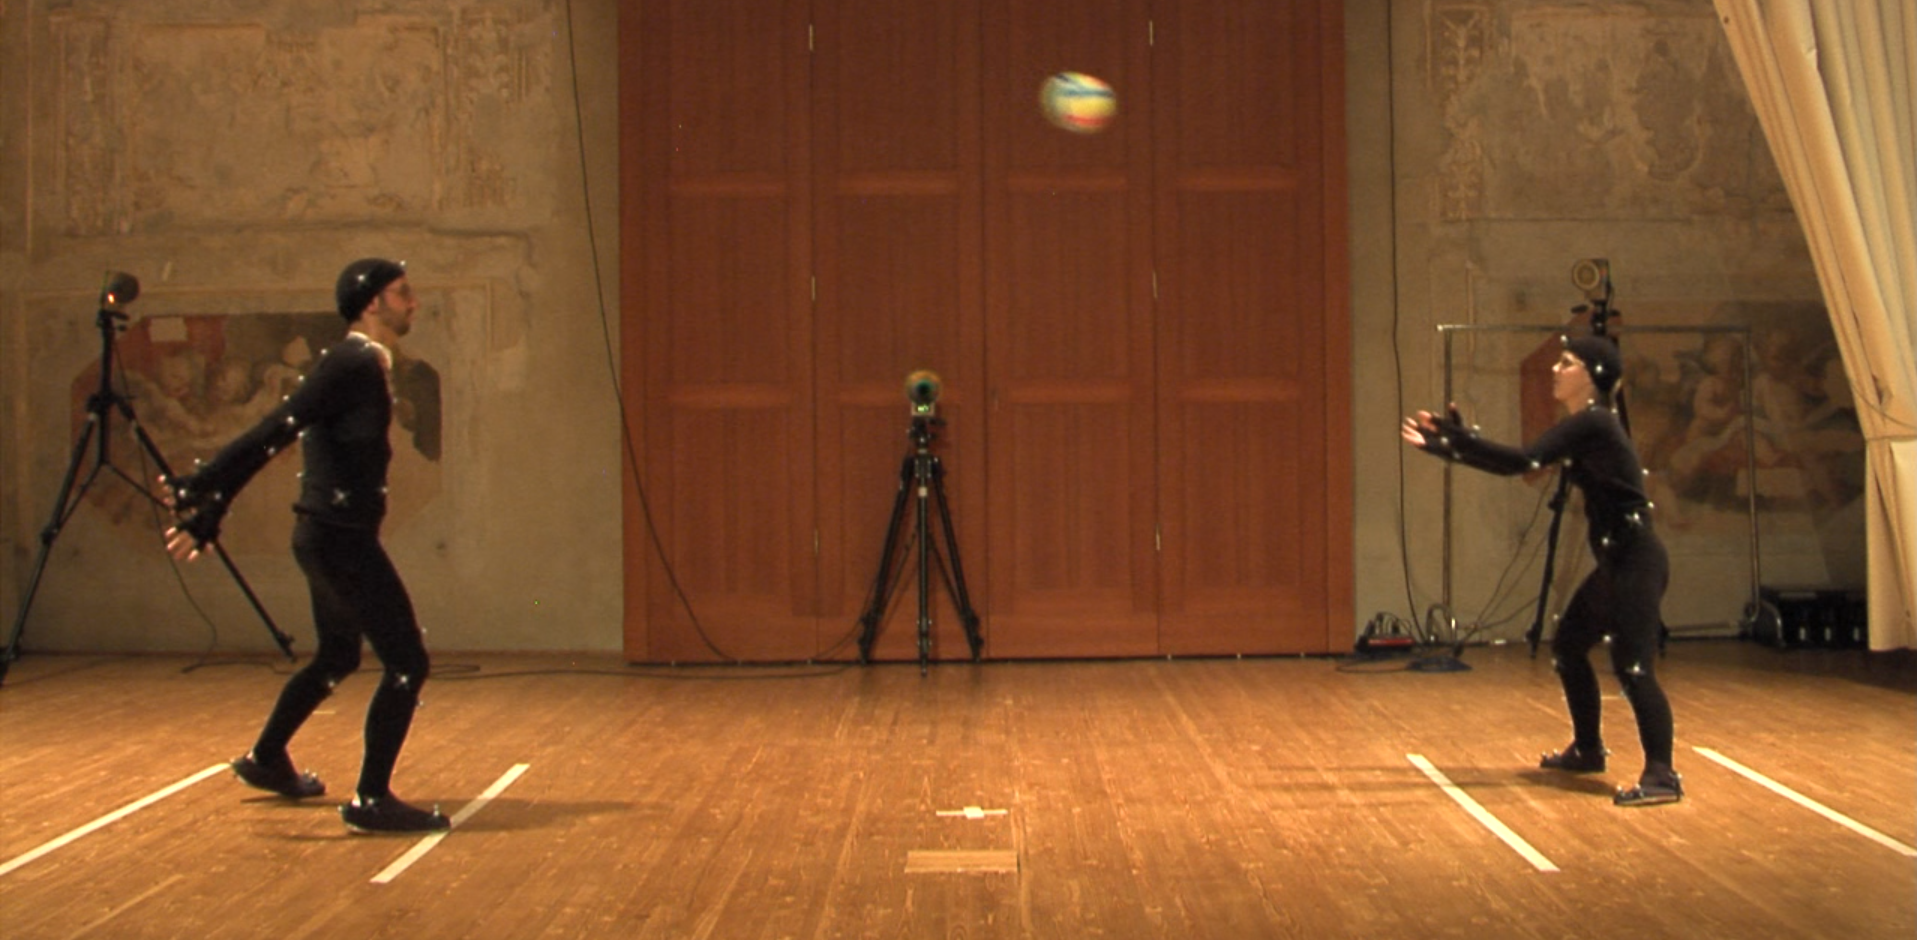
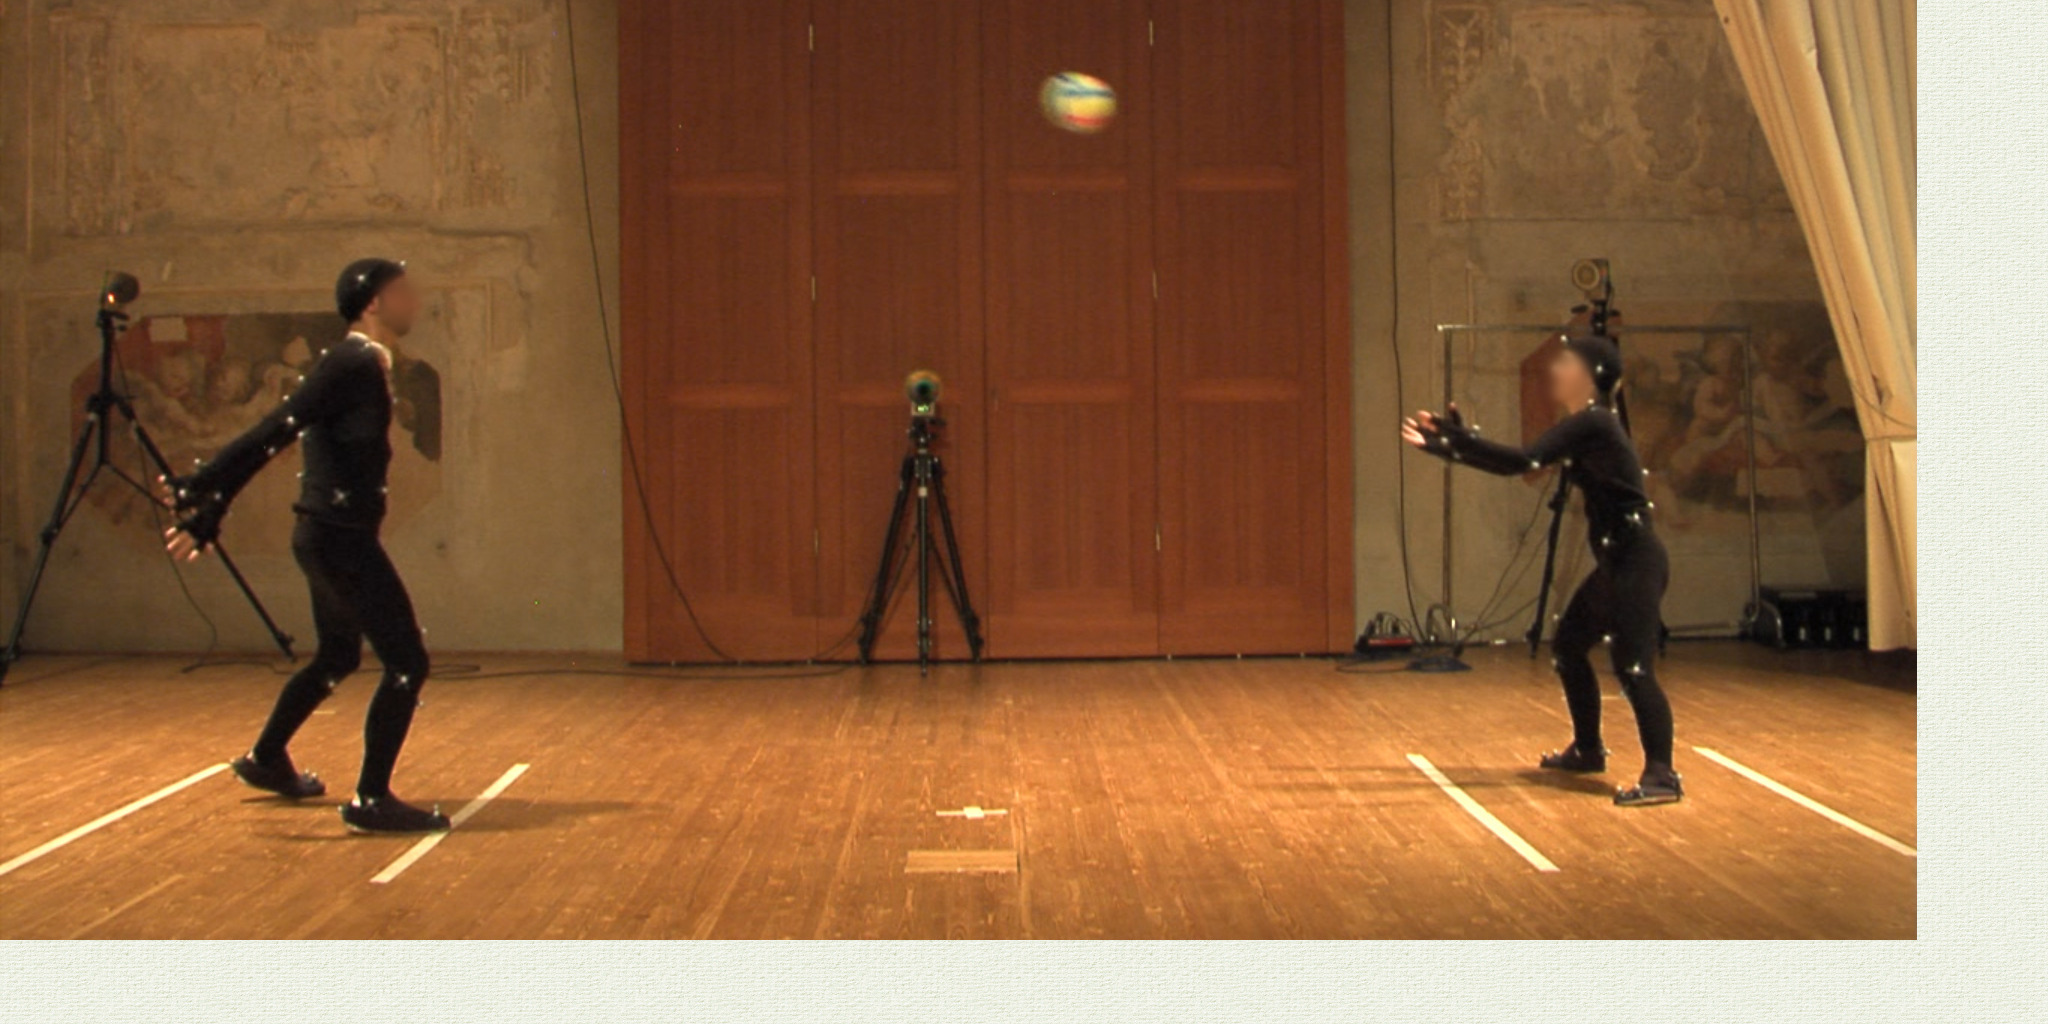
update blurring

diff --git a/docs/thesis/chapters/introduction.tex b/docs/thesis/chapters/introduction.tex
@@ -72,8 +72,8 @@ This technique involved attaching reflective markers to specific body points,
 which were then tracked by cameras to reconstruct the subject's movement in a digital environment. 
 \begin{figure}[H]
     \centering
-    \includegraphics[width=0.72\textwidth]{graphics/bodyMarkersExampleImage.png}
-    \includegraphics[width=0.72\textwidth]{graphics/bodyMarkersExampleMoCap.png}
+    \includegraphics[width=0.9\textwidth]{graphics/bodyMarkersExampleImage.png}
+    \includegraphics[width=0.9\textwidth]{graphics/bodyMarkersExampleMoCap.png}
     \caption{Video frame and MoCap scene with infrared cameras and markers}
     \label{fig:common}
 \end{figure}
@@ -86,7 +86,7 @@ This approach relies on complex algorithms that can identify and track features 
 such as joint positions and skeletal structure, from video footage.
 \begin{figure}[H]
     \centering
-    \includegraphics[width=0.8\textwidth]{graphics/MoCapMarkerlessQualisys.png}
+    \includegraphics[width=0.9\textwidth]{graphics/MoCapMarkerlessQualisys.png}
     \caption{Markerless MoCap scene}
     \label{fig:mocap}
 \end{figure}
@@ -104,8 +104,8 @@ performances and translate them into the movements of their virtual counterparts
 Additionally, facial MoCap was used to capture nuanced facial expressions, enhancing the realism of the characters.
 \begin{figure}[H]
     \centering
-    \includegraphics[width=0.8\textwidth]{graphics/avatar_markers.jpg}
-    \caption[]{The actor Sam Worthington and his Na'vi Jake Sully\textsuperscript{1}}
+    \includegraphics[width=0.9\textwidth]{graphics/avatar_markers.jpg}
+    \caption[]{The actor Sam Worthington and his Na'vi Jake Sully}
     \label{fig:avatar}
 \end{figure}
 
